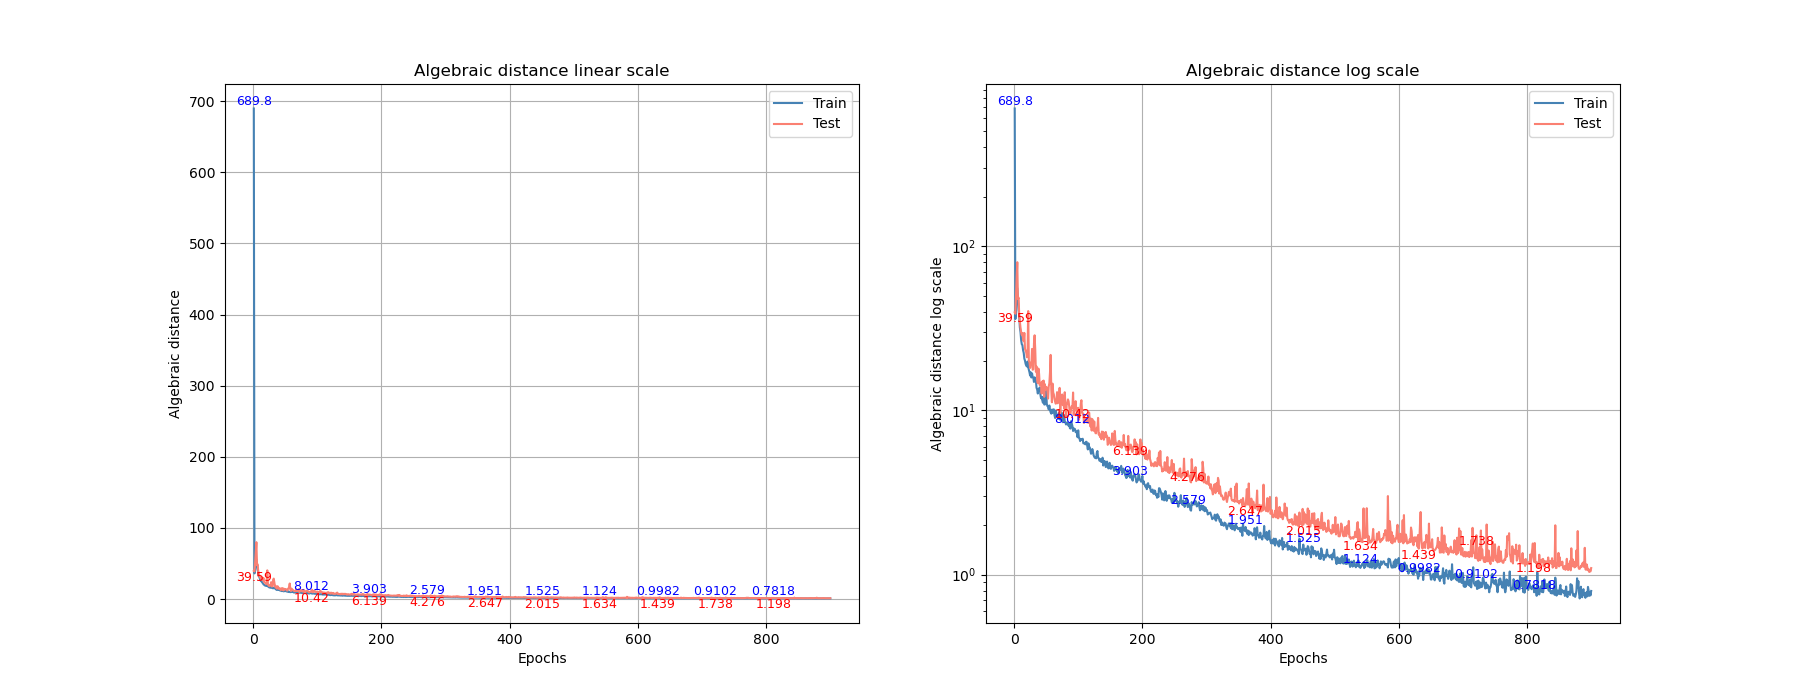
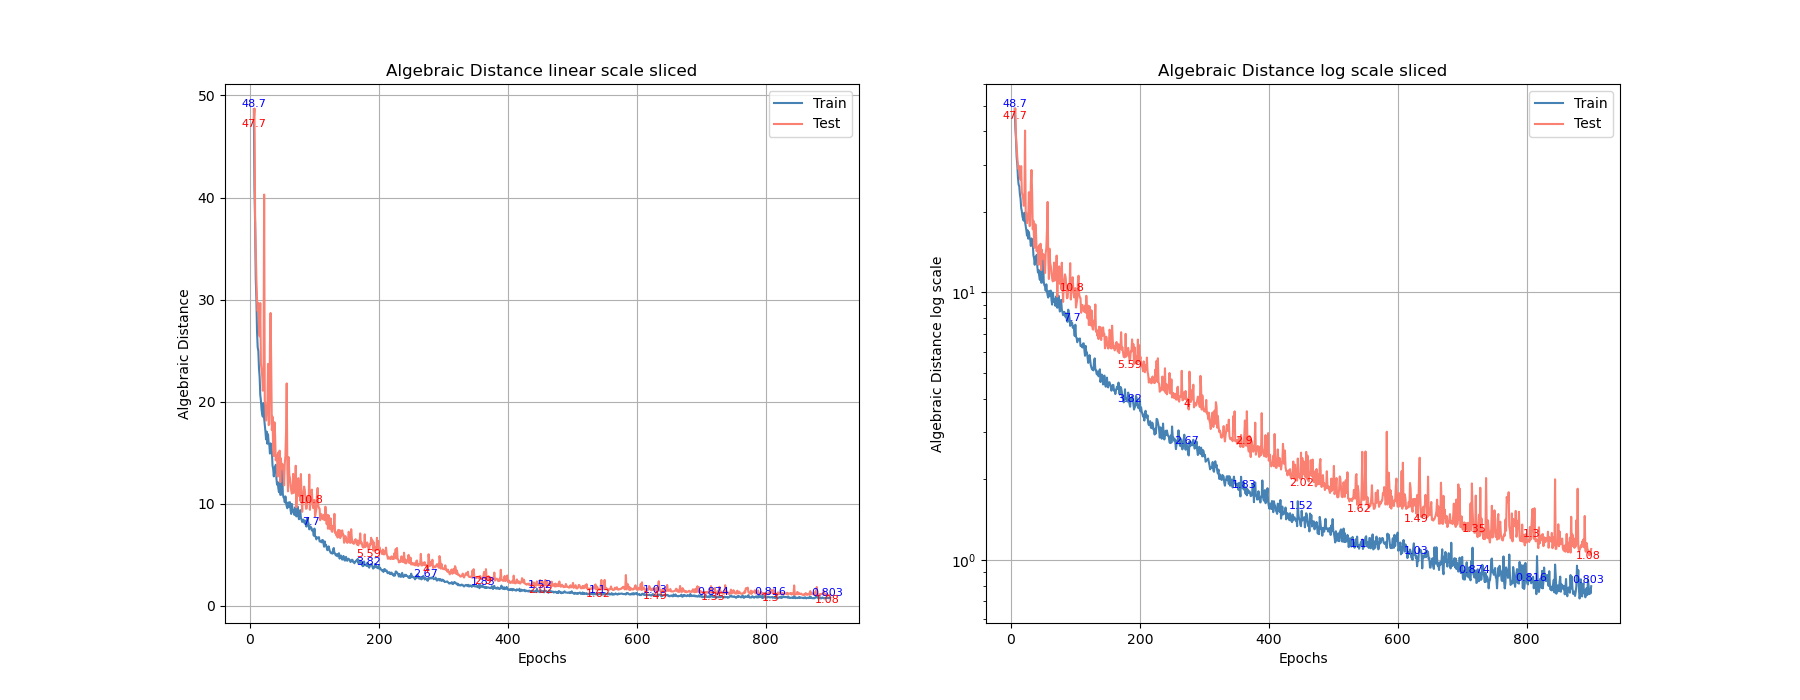
.

diff --git a/utils.py b/utils.py
@@ -71,10 +71,10 @@ class ConvNet(nn.Module):
         return x
 
 def plot(x, y1, y2, title, plots_path, x_label="Epochs", show=False, save=True):
-    if len(y1) > 3 and (y1[0] > y1[3] + 2000 or y2[0] > y2[3] + 2000):
-        y1 = y1[3:]
-        y2 = y2[3:]
-        x = x[3:]
+    # if len(y1) > 3 and (y1[0] > y1[3] + 2000 or y2[0] > y2[3] + 2000):
+    y1 = y1[5:]
+    y2 = y2[5:]
+    x = x[5:]
     fig, axs = plt.subplots(1, 2, figsize=(18, 7))  # 1 row, 2 columns
     
     for ax, y_scale in zip(axs, ['linear', 'log']):

diff --git a/params.py b/params.py
@@ -27,7 +27,7 @@ lr_decay = 0.8
 wieght_decay = 5e-5 #TODO 5e-4
 SCHED = True
 USE_RECONSTRUCTION_LAYER = True
-BATCH_SIZE = 16 # TODO 1, 32
+BATCH_SIZE = 16 # TODO 32, 64
 NORM = True
 TRAIN_FROM_SCRATCH = False
 DEEPF_NOCORRS = False
@@ -47,7 +47,7 @@ SED_TRIM_THRESHOLD = 0.01 if STEREO else 0.1
 LAST_SV_COEFF = 0 if USE_RECONSTRUCTION_LAYER else 1
 ALG_COEFF = [0]
 RE1_COEFF = [0]
-SED_COEFF = [0.05] # TODO 0.05, 0.1
+SED_COEFF = [0.01] # TODO 0.05, 0.1
 
 #### Model ###
 MLP_HIDDEN_DIM = [1024, 512]

diff --git a/PlotFromText.py b/PlotFromText.py
@@ -110,7 +110,7 @@ def plot_parameter(x, y1, y2, title, plots_path=None, x_label="Epochs", save=Fal
 
 
 if __name__ == "__main__":
-    plots_path = "plots\Stereo\SED_0.05__auged__lr_2e-05__avg_embeddings_False__conv_True__model_CLIP__use_reconstruction_True__BS_16__WD_5e-05"
+    plots_path = "plots\Stereo\SED_0.1__lr_5e-05__avg_embeddings_False__conv_True__model_CLIP__use_reconstruction_True__BS_16"
     file_path = os.path.join(plots_path, "output.log")
     save = True
 
